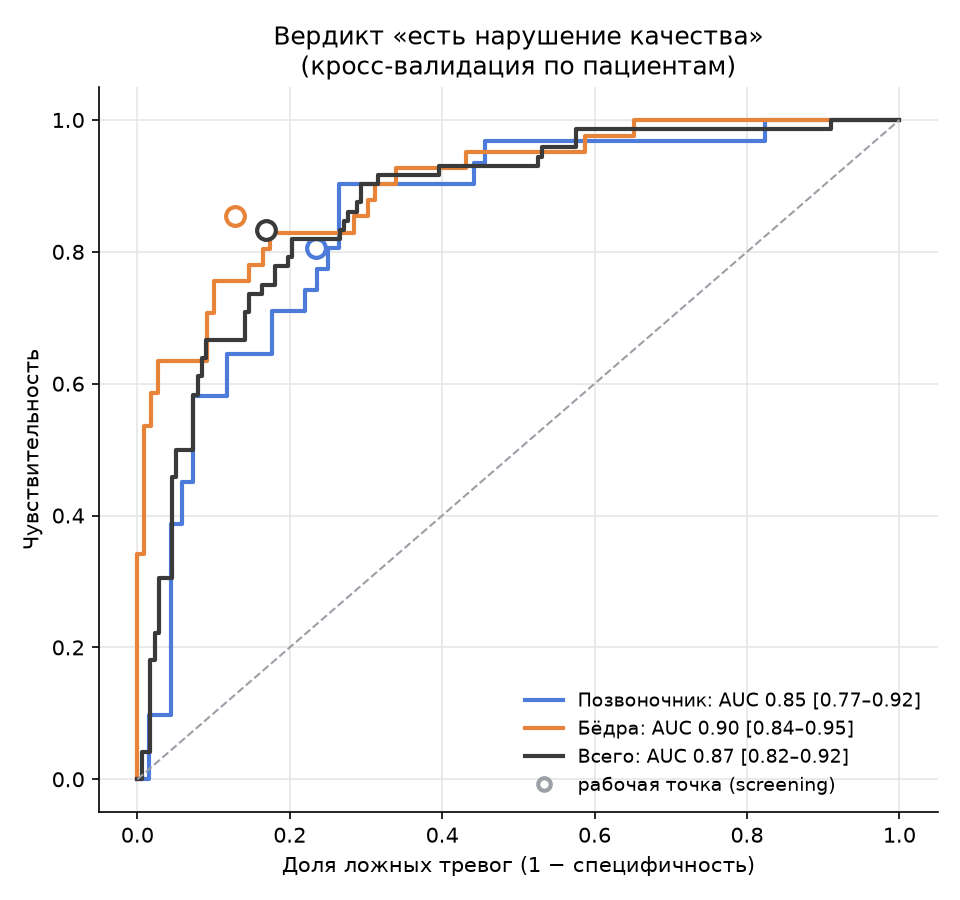
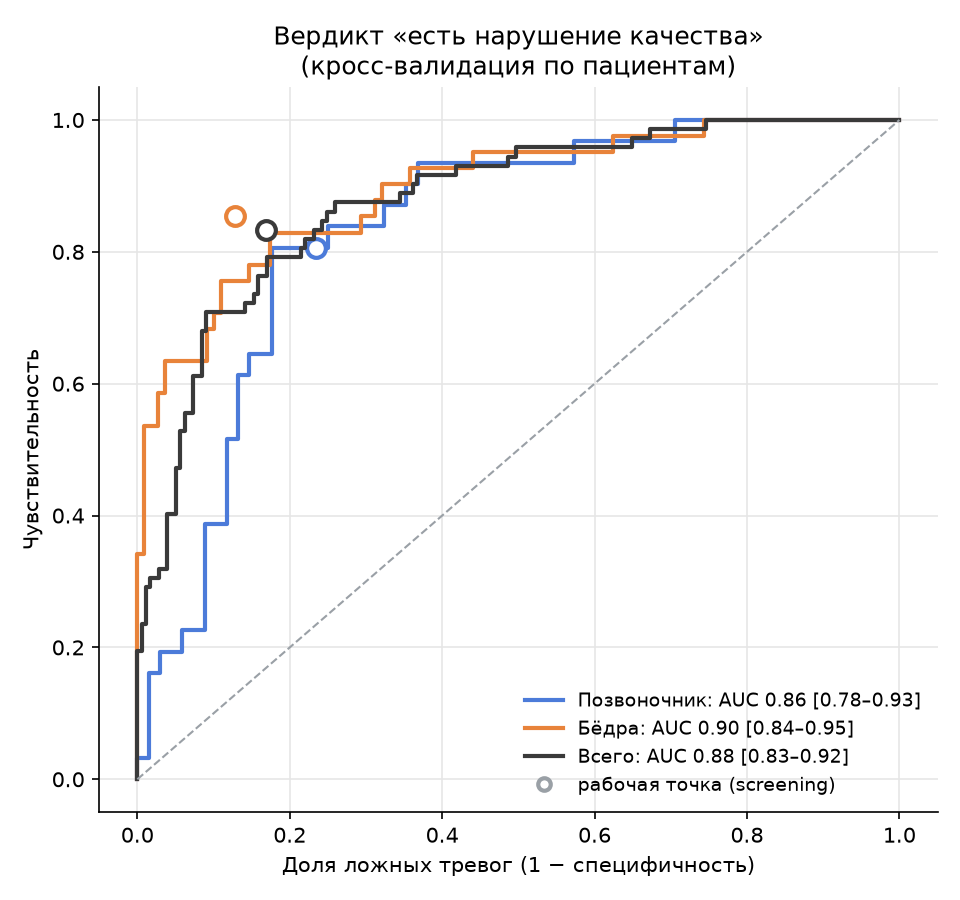
Сборка вероятности по областям: AUC 0.870 -> 0.878, PR-AUC 0.69 -> 0.77
quality_prob у позвоночника собирается из процентилей типов (три типа
по 6-17 нарушений, шкала вероятностей неустойчива: 0.859 против 0.845),
у бедра — из вероятностей (доминирует ротация с 36 примерами, процентили
её убивают: 0.62). Сверху одна калибровка на область: внутри области
это монотонное преобразование, между областями сводит шкалы — без неё
общий AUC падал до 0.75.

По исследованиям AUC 0.821 -> 0.851. F1 не изменился: вердикт берётся
от порогов типов.

Проверено и отброшено: сквозная модель вердикта (0.78 и 0.86 против
0.856 и 0.902 у декомпозиции), новые признаки для оси и полей кадра.

Changed region(s): [[0.125, 0.1244, 0.875, 0.8711]]

diff --git a/scripts/eval_pipeline.py b/scripts/eval_pipeline.py
@@ -13,11 +13,12 @@ import pandas as pd
 from PIL import Image
 from sklearn.ensemble import ExtraTreesClassifier
 from sklearn.metrics import average_precision_score, f1_score, roc_auc_score
+from sklearn.linear_model import LogisticRegression
 from sklearn.model_selection import StratifiedGroupKFold
 from sklearn.pipeline import make_pipeline
 from sklearn.preprocessing import StandardScaler
 
-from dxaqc.decision import TYPES, Monotone, sensitivity_threshold, spine_measurements
+from dxaqc.decision import FUSION, TYPES, Monotone, sensitivity_threshold, spine_measurements
 from dxaqc.features import hip_features
 from dxaqc.hipcrop import hip_crop, rotation_features
 
@@ -50,13 +51,14 @@ def blend_with_other_hip(prob, ids, alpha):
 
 
 def cv_type(X, y, groups, make_model, seed):
-    """Out-of-fold probability and binary decision (threshold tuned on the training folds)."""
-    prob, dec = np.zeros(len(y)), np.zeros(len(y), bool)
+    """Out-of-fold probability, decision (threshold from the training folds) and fusion score."""
+    prob, dec, rank = np.zeros(len(y)), np.zeros(len(y), bool), np.zeros(len(y))
     for tr, va in StratifiedGroupKFold(5, shuffle=True, random_state=seed).split(X, y, groups):
         m = make_model(); m.fit(X[tr], y[tr])
         t = best_threshold(y[tr], m.predict_proba(X[tr])[:, 1])
         prob[va] = m.predict_proba(X[va])[:, 1]; dec[va] = prob[va] >= t
-    return prob, dec
+        rank[va] = m.rank_score(X[va])
+    return prob, dec, rank
 
 
 def metrics(y, score, dec):
@@ -111,7 +113,7 @@ def main():
         y_img = idx.loc[ids, "y"].astype(int).to_numpy()
         runs = []
         for seed in SEEDS:
-            probs, decs = {}, {}
+            probs, decs, fuse = {}, {}, {}
             for vt, cols in types[region].items():
                 yv = idx.loc[ids, vt].astype(int).to_numpy()
                 if cols == "rotation":
@@ -124,14 +126,25 @@ def main():
                         t = best_threshold(yv[tr], rf.predict_proba(hog_det[tr])[:, 1])
                         prob[va] = rf.predict_proba(hog_det[va])[:, 1]; dec[va] = prob[va] >= t
                     prob = blend_with_other_hip(prob, ids, alpha=0.2)
+                    fuse[vt] = prob
                     for tr, va in StratifiedGroupKFold(5, shuffle=True, random_state=seed).split(hog_man, yv, groups):
                         dec[va] = prob[va] >= best_threshold(yv[tr], prob[tr])
                 else:
                     feats, signs = cols
-                    prob, dec = cv_type(F[feats].to_numpy(float), yv, groups, lambda: Monotone(signs, lr_weights=True), seed)
+                    prob, dec, rank = cv_type(F[feats].to_numpy(float), yv, groups, lambda: Monotone(signs, lr_weights=True), seed)
                 probs[vt], decs[vt] = prob, dec
-            score = 1 - np.prod(1 - np.stack(list(probs.values())), 0)   # noisy-OR: "any violation"
-            runs.append((probs, decs, score, None, np.any(np.stack(list(decs.values())), 0)))
+                fuse[vt] = rank if FUSION[region] == "percentile" else prob
+            # combined score for quality_prob: percentiles for the spine types, probabilities for hips,
+            # then ONE calibration per region (fitted on the training folds) so that the two regions end
+            # up on the same probability scale and can be pooled — without it the overall AUC collapses.
+            raw = 1 - np.prod(1 - np.stack([fuse.get(vt, probs[vt]) for vt in probs]), 0)
+            score = np.zeros(len(raw))
+            for tr, va in StratifiedGroupKFold(5, shuffle=True, random_state=seed).split(raw[:, None], y_img, groups):
+                cal = LogisticRegression(C=10.0, max_iter=2000).fit(raw[tr, None], y_img[tr])
+                if cal.coef_[0, 0] <= 0:
+                    cal.coef_[0, 0] = 1e-3
+                score[va] = cal.predict_proba(raw[va, None])[:, 1]
+            runs.append((probs, decs, score, raw, np.any(np.stack(list(decs.values())), 0)))
         # aggregate over seeds: mean metrics; pooled (seed-averaged) scores for CIs
         for vt in types[region]:
             yv = idx.loc[ids, vt].astype(int).to_numpy()
@@ -140,8 +153,9 @@ def main():
         ms_any = [metrics(y_img, r[2], r[4]) for r in runs]
         report.setdefault("regions_any_type", {})[region] = {
             k: round(float(np.mean([m[k] for m in ms_any])), 3) for k in ms_any[0]}
-        score = np.mean([r[2] for r in runs], 0)
-        per_image = pd.DataFrame({"id": ids, "y": y_img, "score": score})
+        score = np.mean([r[2] for r in runs], 0)          # calibrated: comparable between regions
+        raw_mean = np.mean([r[3] for r in runs], 0)         # uncalibrated: the ranking inside a region
+        per_image = pd.DataFrame({"id": ids, "y": y_img, "score": score, "score_raw": raw_mean})
         for vt in types[region]:
             per_image[vt] = idx.loc[ids, vt].astype(int).to_numpy()
             per_image[f"p_{vt}"] = np.mean([r[0][vt] for r in runs], 0)
@@ -161,9 +175,13 @@ def main():
     d_all = np.mean(dec_runs, 0) >= 0.5
     allrows["decision"] = d_all.astype(int)
     is_spine = allrows.id.str.endswith("spine").to_numpy()
+    raw_all = allrows.score_raw.to_numpy(float)
     for name, mask in (("spine", is_spine), ("hip", ~is_spine), ("overall", np.ones(len(y_all), bool))):
-        ms = [metrics(y_all[mask], s_all[mask], d[mask]) for d in dec_runs]
-        ci = bootstrap(y_all[mask], s_all[mask], d_all[mask])
+        # inside one region the shipped calibration is a single monotone map, so the ranking there is
+        # the uncalibrated one; across regions only the calibrated score is comparable.
+        rank = raw_all if name != "overall" else s_all
+        ms = [metrics(y_all[mask], rank[mask], d[mask]) for d in dec_runs]
+        ci = bootstrap(y_all[mask], rank[mask], d_all[mask])
         report["regions"][name] = {k: [round(float(np.mean([m[k] for m in ms])), 3),
                                        [round(float(x), 3) for x in ci[k]]] for k in ms[0]}
         report["regions"][name]["n"] = [int(mask.sum()), int(y_all[mask].sum())]

diff --git a/dxaqc/decision.py b/dxaqc/decision.py
@@ -14,6 +14,12 @@ from .geometry import MM_PER_PX, axes_mm, spine_rules
 from .roi import hip_roi, spine_rois
 from .vertebrae import find as find_vertebrae
 
+# How the per-type scores are combined into the image score (quality_prob, the column ROC-AUC is
+# computed from). Spine has three types with 6-17 positives each, where the probability scale is
+# unstable, and percentiles rank better (AUC 0.859 against 0.845). Hip is dominated by rotation with
+# 36 positives, where the probability itself carries information and percentiles destroy it (0.62).
+FUSION = {"spine": "percentile", "hip": "probability"}
+
 TYPES = {
     "spine": {"v_axis": (["abs_tilt", "curvature"], [1, -1]), "v_pos": (["crest_conf"], [-1]),
               # artifacts: one measurement beats three — the extra two are weaker (0.84, 0.80 against
@@ -101,6 +107,11 @@ class Monotone:
         p = self.cal.predict_proba(self._scale(s)[:, None])[:, 1]
         return np.stack([1 - p, p], 1)
 
+    def rank_score(self, X):
+        """Where this image falls in the training distribution of the score, in [0, 1]."""
+        s = ((X * self.signs - self.mu) / self.sd) @ self.w
+        return np.searchsorted(self.ref, s) / max(len(self.ref), 1)
+
 
 def blend_rotation(own, other, alpha):
     """Rotation probability of a hip, mixed with the other hip of the same study.
@@ -143,7 +154,14 @@ class DecisionModel:
             self.models[vt] = m
             probs[vt] = m.predict_proba(feats[vt])[:, 1]
             self.thresholds[vt] = float(best_threshold(labels[vt], probs[vt]))
-        self.scores_ = 1 - np.prod([1 - probs[vt] for vt in probs], axis=0)
+        fuse = {vt: (self.models[vt].rank_score(feats[vt]) if FUSION[region] == "percentile" else probs[vt])
+                for vt in probs}
+        raw = 1 - np.prod([1 - fuse[vt] for vt in fuse], axis=0)
+        y_for_cal = np.max([labels[vt] for vt in labels], axis=0) if y_img is None else np.asarray(y_img)
+        self.image_cal = LogisticRegression(C=10.0, max_iter=2000).fit(raw[:, None], y_for_cal)
+        if self.image_cal.coef_[0, 0] <= 0:
+            self.image_cal.coef_[0, 0] = 1e-3
+        self.scores_ = self.image_cal.predict_proba(raw[:, None])[:, 1]
         self.y_img_ = np.max([labels[vt] for vt in labels], axis=0) if y_img is None else np.asarray(y_img)
         self.set_image_thresholds(self.y_img_, self.scores_)
         return self
@@ -158,13 +176,22 @@ class DecisionModel:
 
     def predict(self, meas):
         """meas: dict of measurements for one image -> (probabilities, decisions, image score)."""
-        probs, decs = {}, {}
+        probs, decs, fuse = {}, {}, {}
         for vt, (cols, _) in TYPES[self.region].items():
             x = np.array([[np.nan_to_num(float(meas.get(c) if meas.get(c) is not None else np.nan), nan=0.0) for c in cols]])
             probs[vt] = float(self.models[vt].predict_proba(x)[0, 1])
             decs[vt] = probs[vt] >= self.thresholds[vt]
-        score = 1 - float(np.prod([1 - p for p in probs.values()]))
-        return probs, decs, score
+            fuse[vt] = (float(self.models[vt].rank_score(x)[0])
+                        if FUSION[self.region] == "percentile" and hasattr(self.models[vt], "rank_score")
+                        else probs[vt])
+        raw = 1 - float(np.prod([1 - p for p in fuse.values()]))
+        return probs, decs, self.calibrate(raw)
+
+    def calibrate(self, raw):
+        """Map the combined score to a probability. One calibration per region, fitted on every
+        labelled image, so quality_prob still reads as a probability after percentile fusion."""
+        cal = getattr(self, "image_cal", None)
+        return float(cal.predict_proba([[raw]])[0, 1]) if cal is not None else float(raw)
 
     def verdict(self, probs, decs, score, policy="screening"):
         """(quality_class, violation types) for one image: bad when any violation type fires.

diff --git a/docs/night_report.md b/docs/night_report.md
@@ -512,6 +512,41 @@ PR-AUC 0.690 по снимкам, macro-F1 по типам 0.586.
 F1 0.741, PR-AUC 0.690, чувствительность 0.83,
 специфичность 0.83**; бёдра F1 0.778, позвоночник 0.694.
 
+## 19. Сборка общей вероятности по областям (AUC 0.870 → 0.878)
+
+`quality_prob` — это то, по чему считают ROC-AUC, и собирать его можно по-разному. Замерили четыре
+способа отдельно для каждой области:
+
+| Способ | Позвоночник | Бёдра |
+|---|---|---|
+| noisy-OR вероятностей | 0.845 | **0.877** |
+| noisy-OR процентилей | **0.859** | 0.624 |
+| смешанный | 0.859 | 0.703 |
+| максимум вероятности | 0.845 | 0.862 |
+
+У позвоночника три типа по 6–17 нарушений: шкала вероятностей там неустойчива, процентили ранжируют
+лучше. У бедра доминирует ротация с 36 примерами, её вероятность информативна сама по себе, а
+процентиль её убивает (нормальный снимок получает процентиль около 0.5 по каждому типу, и noisy-OR
+насыщается). Поэтому способ выбран **по области**.
+
+Но тут вылезла ловушка: после такого разделения шкалы у областей разъехались, и общий AUC упал
+до 0.746 — все позвоночники оказались «подозрительнее» всех бёдер. Лечится одной калибровкой на
+область поверх собранной оценки: внутри области это монотонное преобразование, ранжирование не
+меняется, а между областями шкалы сходятся.
+
+Итог: общий ROC-AUC **0.878**, PR-AUC 0.690 → **0.769**,
+по исследованиям AUC 0.821 → **0.851**. F1 не изменился (вердикт от порогов типов, не от общей оценки).
+
+**Что ещё проверили в этот заход и отбросили:**
+
+- **сквозная модель вердикта** — учить `y` напрямую по всем измерениям, там 31 и 41 нарушение против
+  6–36 у отдельных типов. Хуже заметно: позвоночник 0.78 против 0.850, бёдра 0.86 против 0.902.
+  Декомпозиция по типам не просто объяснимее — она точнее на этих объёмах;
+- **новые признаки для двух слабых типов**: для оси — угол межгребневой линии (0.55), разница «ось
+  минус таз» (0.60), горизонтальное смещение столба (0.89, то же что и наклон); для полей кадра —
+  минимум из трёх полей (0.893 сырым признаком, но в модели 0.875 против 0.909 у текущей пары).
+  Ничего не выиграло.
+
 ## 6. Что дальше / вопросы
 
 - Пороги сейчас подобраны на максимум F1 по нашим меткам; для врача, возможно, важнее чувствительность — обсудить.

diff --git a/docs/presentation.md b/docs/presentation.md
@@ -4,8 +4,8 @@
 какая картинка, и что сказать голосом. Картинки — в `docs/figures/` (графики) и `docs/night/`
 (снимки пациентов, их на слайды можно, в репозиторий нельзя).
 
-Ключевые числа, если нужно быстро: **ROC-AUC 0.870, F1 0.741** по снимкам и **F1 0.800** по
-исследованиям (кросс-валидация по пациентам), **0.08 с на снимок**, **499 из 499 файлов** архива
+Ключевые числа, если нужно быстро: **ROC-AUC 0.878, F1 0.741** по снимкам и
+**AUC 0.851, F1 0.800** по исследованиям (кросс-валидация по пациентам), **0.08 с на снимок**, **499 из 499 файлов** архива
 обработано без единой ошибки.
 
 ---
@@ -113,10 +113,10 @@ DICOM → нормализация → «свой/чужой» снимок → 
 
 | | ROC-AUC | PR-AUC | F1 | Чувствительность | Специфичность |
 |---|---|---|---|---|---|
-| Позвоночник (99) | 0.85 [0.77–0.92] | 0.66 | 0.69 | 0.81 | 0.77 |
+| Позвоночник (99) | 0.86 [0.78–0.93] | 0.70 | 0.69 | 0.81 | 0.77 |
 | Бёдра (150) | 0.90 [0.84–0.95] | 0.83 | 0.78 | 0.85 | 0.87 |
-| **Всего (249 снимков)** | **0.87 [0.82–0.92]** | 0.69 | **0.74** | 0.83 | 0.83 |
-| **По исследованиям (100)** | 0.82 [0.73–0.90] | 0.74 | **0.80** | 0.88 | 0.71 |
+| **Всего (249 снимков)** | **0.88 [0.83–0.92]** | 0.77 | **0.74** | 0.83 | 0.83 |
+| **По исследованиям (100)** | **0.85 [0.77–0.92]** | 0.85 | **0.80** | 0.88 | 0.71 |
 
 ТЗ просит чувствительность выявления **исследований** — это последняя строка: 0.88 при 100 исследованиях.
 По типам: поля кадра 0.91, наклон оси 0.90, укладка позвоночника 0.88, ротация бедра 0.87,
